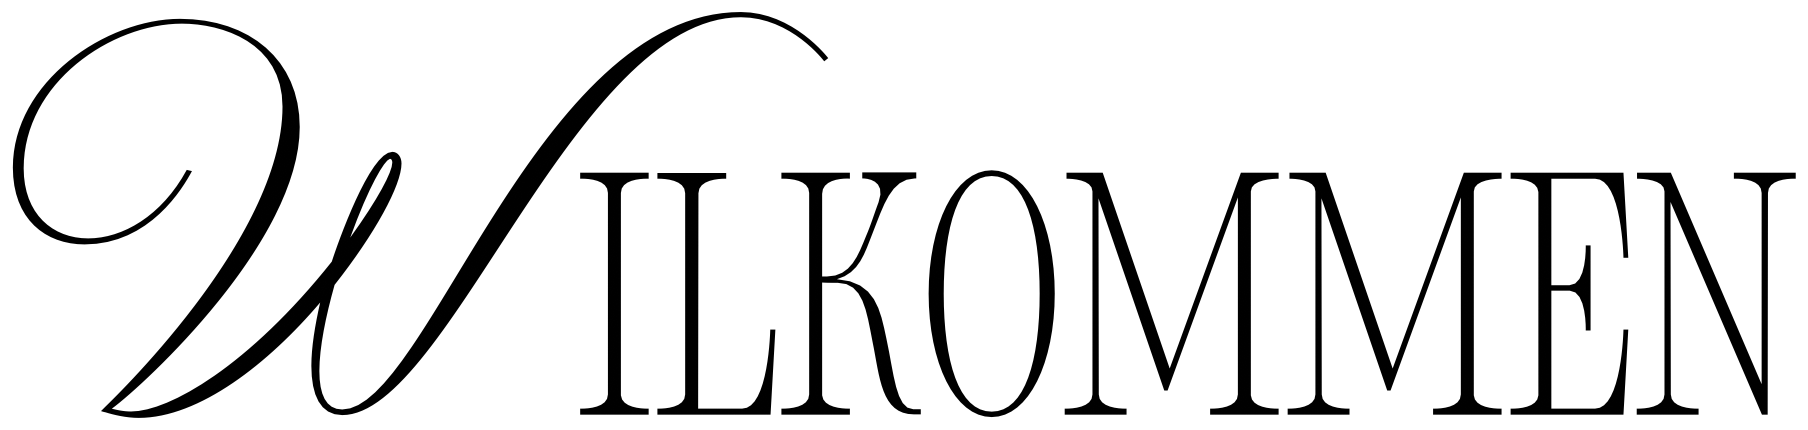
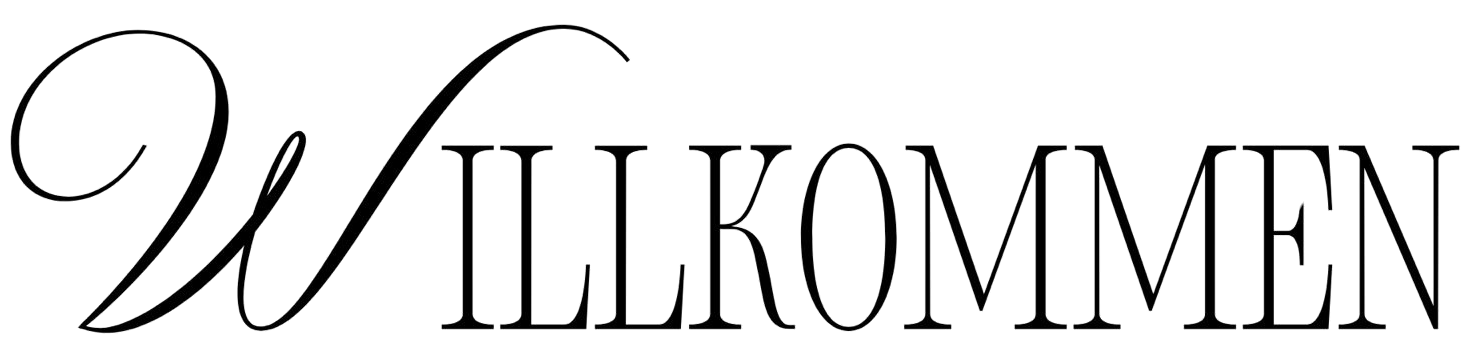
Sobre: nuevo diseño con invitación

diff --git a/public/styles.css b/public/styles.css
@@ -178,6 +178,17 @@ a { color: var(--teal); }
   backdrop-filter: blur(10px);
   border-bottom: 1px solid rgb(1 69 79 / .1);
 }
+/* Textura de papel en la cabecera, con la misma intensidad que la del fondo */
+.paper .nav::before {
+  content: '';
+  position: absolute;
+  inset: 0;
+  z-index: -1;
+  pointer-events: none;
+  background: var(--watercolor) 0 0 / 320px, var(--grain) 0 0 / 180px;
+  mix-blend-mode: multiply;
+  opacity: .5;
+}
 .nav__brand { display: flex; color: var(--teal); margin-right: auto; }
 .nav__brand .logo { width: 60px; }
 .nav__links { display: flex; align-items: center; gap: 1.4rem; }
@@ -257,20 +268,21 @@ html[lang="en"] .title-img--program { --img: url(img/programa-en.png); --ar: 141
 /* "Dress code": igual en los 3 idiomas */
 /* "Bienvenidos / Willkommen / Welcome": mismo alto en los 3 idiomas; alineado a la izquierda como el texto de su columna */
 .title-img--welcome { --img: url(img/bienvenidos-es.png); --ar: 1829 / 430; margin: 0 0 .4rem; }
-html[lang="de"] .title-img--welcome { --img: url(img/bienvenidos-de.png); --ar: 1808 / 430; }
+html[lang="de"] .title-img--welcome { --img: url(img/bienvenidos-de.png); --ar: 1470 / 344; } /* "Willkommen" corregido */
 html[lang="en"] .title-img--welcome { --img: url(img/bienvenidos-en.png); --ar: 1449 / 430; }
 .title-img--dresscode { --img: url(img/titulo-dresscode.png); --ar: 1516 / 375; }
 /* "Regalos / Geschenke / Gifts": recortadas al mismo alto para que la letra mida igual en los 3 idiomas */
 .title-img--gift { --img: url(img/regalos-es.png); --ar: 1416 / 525; }
 html[lang="de"] .title-img--gift { --img: url(img/regalos-de.png); --ar: 1542 / 525; }
 html[lang="en"] .title-img--gift { --img: url(img/regalos-en.png); --ar: 917 / 525; }
-/* "Confirma tu asistencia": imagen en castellano e inglés; en alemán, de momento, el título en texto */
+/* "Confirma tu asistencia": imagen en los tres idiomas */
 .title-img--rsvp { --img: url(img/titulo-confirma.png); --ar: 1361 / 560; height: clamp(5rem, 11vw, 7.6rem); }
 /* Inglés: su imagen es un 3 % más alta (578 frente a 560 px), así que va un 3 % más grande para que la letra mida igual */
 html[lang="en"] .title-img--rsvp { --img: url(img/titulo-confirma-en.png); --ar: 1699 / 578; height: calc(clamp(5rem, 11vw, 7.6rem) * 1.032); }
-/* Alemán: aún sin imagen, se ve el título en texto */
-html[lang="de"] .title-img--rsvp { display: none; }
-html:not([lang="de"]) .rsvp__title-text { position: absolute; width: 1px; height: 1px; overflow: hidden; clip-path: inset(50%); white-space: nowrap; }
+/* Alemán: "Wir bitten um Rückmeldung" (mide prácticamente lo mismo que la de castellano: mismo alto) */
+html[lang="de"] .title-img--rsvp { --img: url(img/titulo-confirma-de.png); --ar: 1276 / 446; }
+/* El título en texto queda oculto en los tres idiomas (solo para Google y lectores de pantalla) */
+.rsvp__title-text { position: absolute; width: 1px; height: 1px; overflow: hidden; clip-path: inset(50%); white-space: nowrap; }
 .title-img--venue { --img: url(img/titulo-finca.png); --ar: 1588 / 741; height: clamp(5.6rem, 12vw, 8.5rem); margin: 0 0 .4rem; }
 /* Fecha y lugar siempre en dos líneas, sin separador. Cada línea va en una sola fila: el tamaño se calcula
    para que quepa la más larga ("SÁBADO, 8 DE MAYO DE 2027 · 12:30", unos 20 em) en el ancho de la pantalla */
@@ -805,7 +817,6 @@ html:not([lang="de"]) .rsvp__title-text { position: absolute; width: 1px; height
 /* Invitación: del tamaño exacto de la pantalla, con una copia de la parte de arriba de la web.
    main.js la encoge y la coloca dentro del sobre; luego la saca y la devuelve a su tamaño real */
 .intro__card {
-  will-change: transform;
   position: absolute;
   top: 0;
   left: 0;

diff --git a/public/main.js b/public/main.js
@@ -74,8 +74,12 @@
   const units = {};
   document.querySelectorAll('[data-unit]').forEach((el) => { units[el.dataset.unit] = el; });
 
+  // Se lee el reloj una sola vez por actualización y se programa la siguiente 30 ms DESPUÉS de cada cambio de segundo.
+  // (Antes se leía dos veces y apuntaba justo al cambio: si las dos lecturas caían a cada lado del cambio,
+  // el segundo se quedaba igual y al siguiente bajaba 2 de golpe)
   function tick() {
-    const diff = WEDDING - Date.now();
+    const now = Date.now();
+    const diff = WEDDING - now;
     if (diff <= 0) {
       document.querySelector('[data-countdown]').hidden = true;
       document.querySelector('[data-countdown-done]').hidden = false;
@@ -86,7 +90,7 @@
     units.hours.textContent = String(Math.floor(s / 3600) % 24).padStart(2, '0');
     units.minutes.textContent = String(Math.floor(s / 60) % 60).padStart(2, '0');
     units.seconds.textContent = String(s % 60).padStart(2, '0');
-    setTimeout(tick, 1000 - (Date.now() % 1000));
+    setTimeout(tick, 1000 - (now % 1000) + 30);
   }
 
   // ---------- Copiar IBAN ----------
@@ -193,6 +197,7 @@
     // del navegador): primero se quita la intro y, un fotograma después, se devuelve el scroll y aparece el menú
     const frame = () => new Promise((resolve) => requestAnimationFrame(resolve));
     nav.style.opacity = '0';
+    await intro.animate([{ opacity: 1 }, { opacity: 0 }], { duration: 200, easing: 'linear' }).finished; // tapa cualquier diferencia de dibujado
     intro.style.display = 'none';
     await frame();
     root.classList.remove('show-intro');

diff --git a/public/i18n.js b/public/i18n.js
@@ -90,7 +90,7 @@ window.TRANSLATIONS = {
     'gift.copy': 'IBAN kopieren',
     'gift.copied': 'Kopiert!',
 
-    'rsvp.title': 'Bestätige deine Teilnahme',
+    'rsvp.title': 'Wir bitten um Rückmeldung',
     'rsvp.note': 'Bitte gib uns bis zum 1. April 2027 Bescheid.',
     'rsvp.contact': 'Wenn ihr Fragen habt, meldet euch gerne bei uns.',
     'rsvp.closing': 'Wir freuen uns auf dich!',
